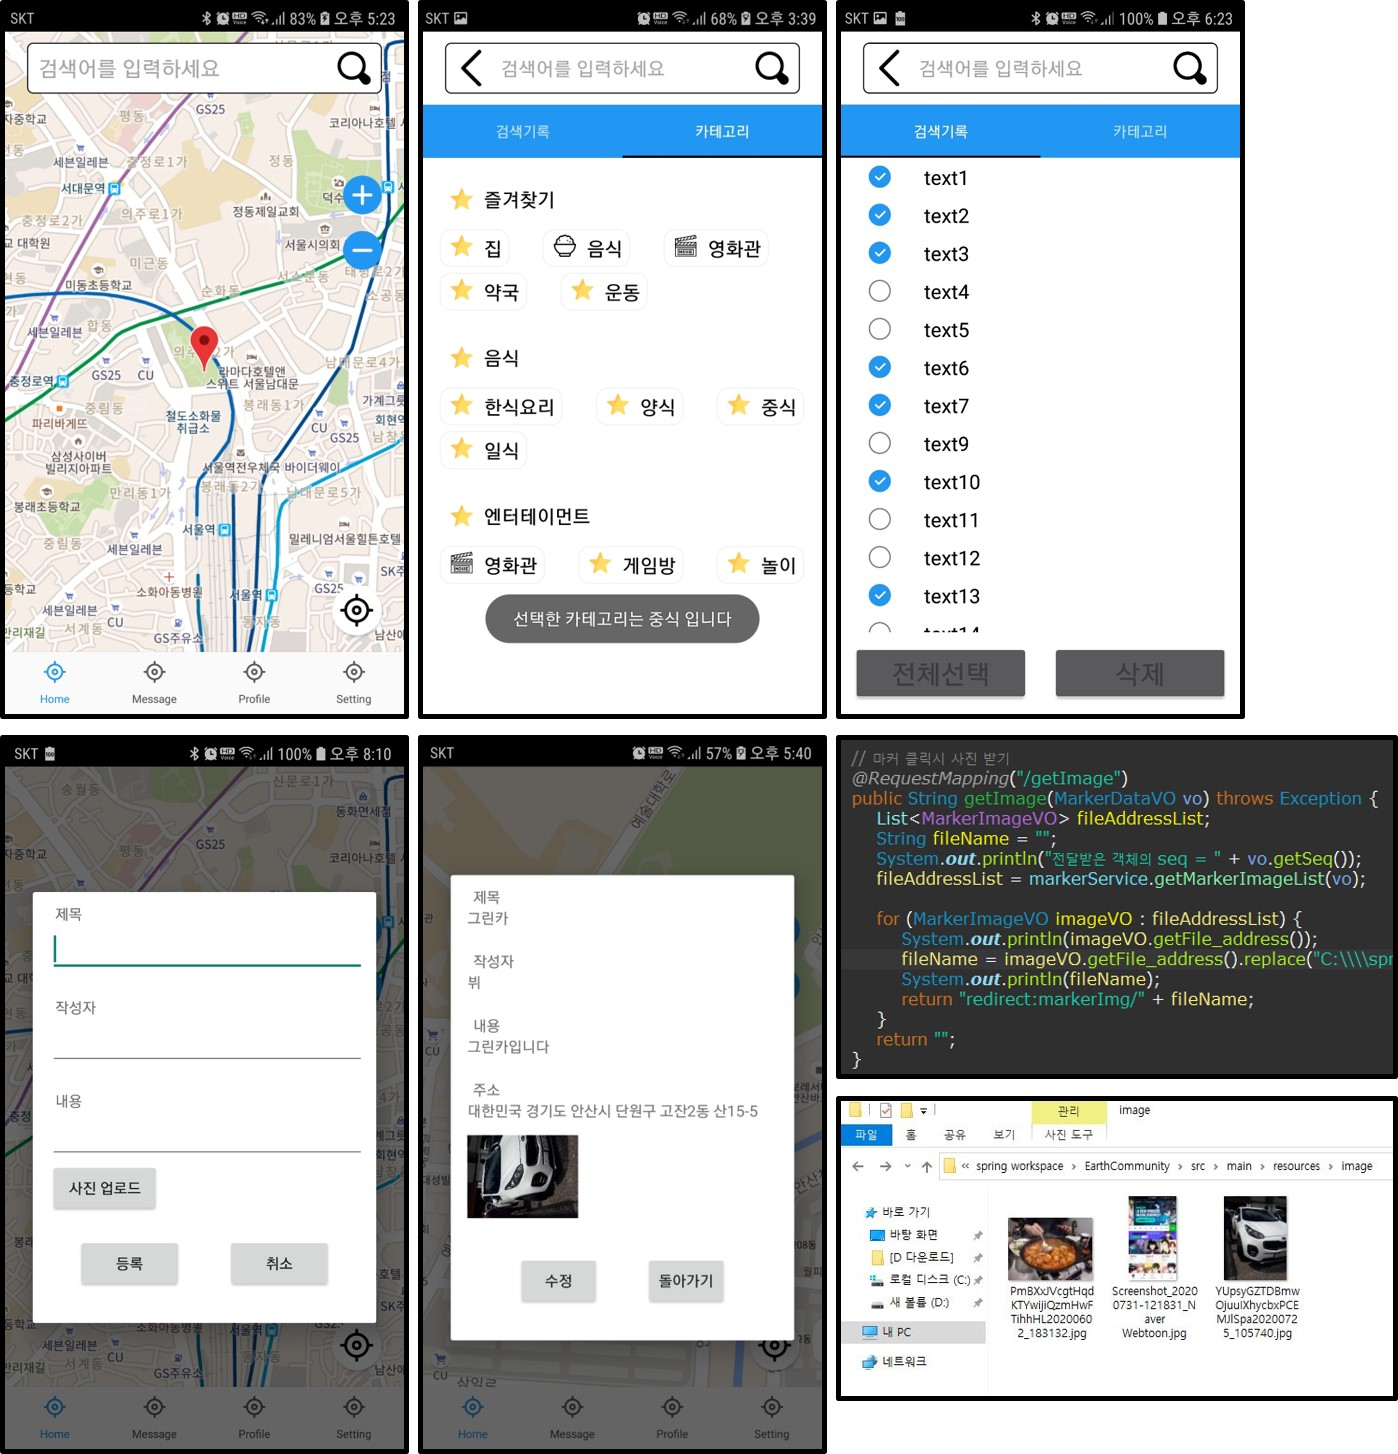
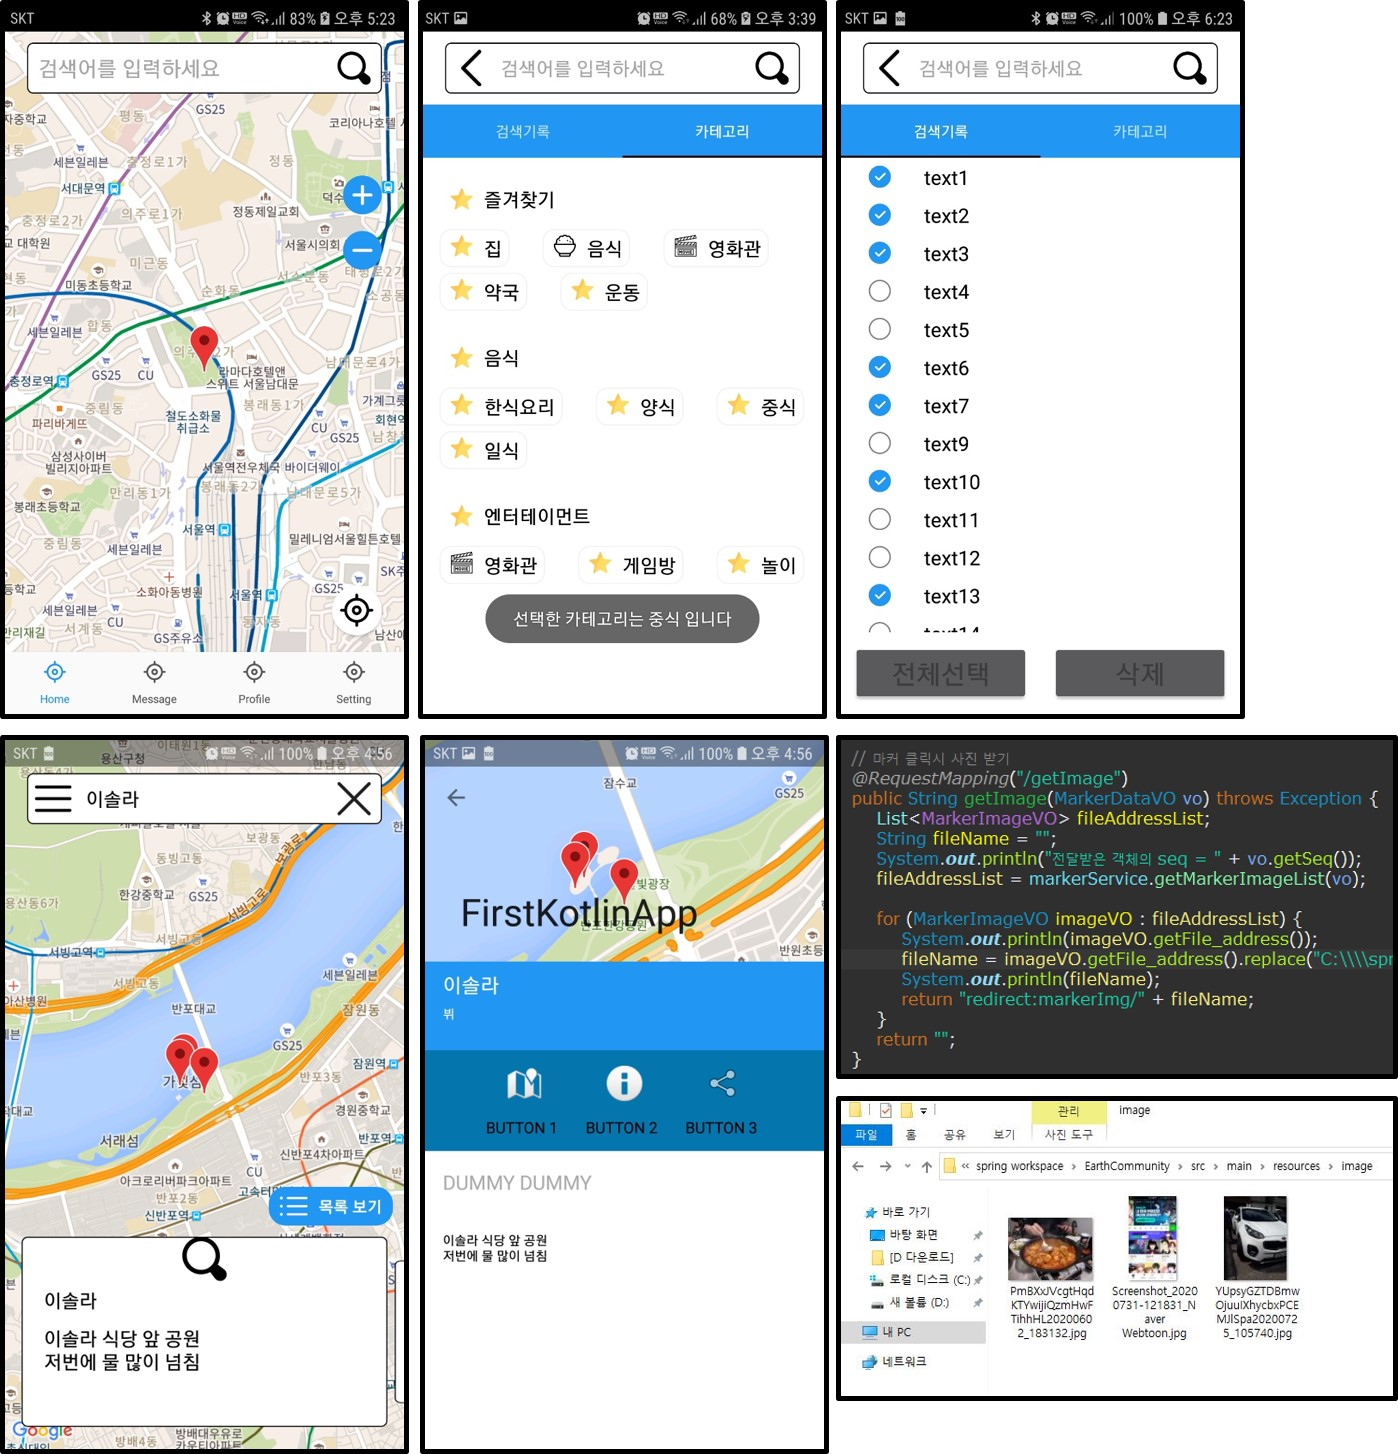
update

Changed region(s): [[0.0, 0.4952, 0.6152, 1.0]]

diff --git a/README.md b/README.md
@@ -2,13 +2,13 @@
 
 ![home](image/README.JPG)
 
-- 다양한 카테고리로 분류하여 사용자가 원하는 마커를 찾고 등록함으로써 소통할 수 있는 애플리케이션
+- 다양한 카테고리로 분류하여 이용자가 원하는 마커를 찾고 등록함으로써 서로 소통할 수 있는 애플리케이션
 
-- [개발일지](https://github.com/vvvvvoin/EC-Project/blob/master/EC%ED%94%84%EB%A1%9C%EC%A0%9D%ED%8A%B8%20%EC%9D%BC%EC%A7%80.md)
+- **[개발일지](https://github.com/vvvvvoin/EC-Project/blob/master/EC%ED%94%84%EB%A1%9C%EC%A0%9D%ED%8A%B8%20%EC%9D%BC%EC%A7%80.md) 를 확인해주세요**
 
 
 - 환경
-  - AndroidStudio 4.0
+  - AndroidStudio 4.0, only Kotlin
   - Spring Legacy Project
 - 기능
   - 권한설정
@@ -17,7 +17,8 @@
     - ClusterManager Marker Item event(등록, 수정, 뷰) [(here)](https://github.com/vvvvvoin/EC-Project/blob/master/EC%ED%94%84%EB%A1%9C%EC%A0%9D%ED%8A%B8%20%EC%9D%BC%EC%A7%80.md#20200726)
     - 현재위치 찾기 [(here)](https://github.com/vvvvvoin/EC-Project/blob/master/EC%ED%94%84%EB%A1%9C%EC%A0%9D%ED%8A%B8%20%EC%9D%BC%EC%A7%80.md#20200726)
     - GeoCoder 주소부여
-  - mobileDB (Room)
+    - BottomSheet를 이용한 마커 뷰 [(here)](https://github.com/vvvvvoin/EC-Project/blob/master/EC%ED%94%84%EB%A1%9C%EC%A0%9D%ED%8A%B8%20%EC%9D%BC%EC%A7%80.md#20200831)
+  - mobileDB (Room) 
     
     - DB데이터를 ClusterManager를 통해 GoogleMap에 Marker 추가
   - RetrofitRxJava

diff --git a/EC프로젝트 일지.md b/EC프로젝트 일지.md
@@ -636,3 +636,15 @@ java.lang.SecurityException: Permission Denial: opening provider com.android.pro
 - 기존에 마커클릭 이벤트는 popUpActivity에서 bottomSheet로 바뀔예정
 - 선택되거나 해당되는 마커는 하이라이트를 줘야함
 
+### 2020.09.03
+
+- 마커클릭 이벤트를 popUpActivity에서 bottomSheet로 변경하였다
+- 클릭된 마커를 주변마커과 구분하기 위해 색, 아이콘을 변경했다 (하이라이트)
+- 마커가 밀집된 주변을 클러스트하는 기능을 기존의 구글의 onCameraIdle()와 연동못시켰는데 연동에 성공했다
+  - 구글의  onCameraIdle()에 ClusterManger.cluster() 를 넣어주면 된다
+- 이 과정에서 기존에 clusterManger를 사용하는데 마커 변경과 관련된 문제가 생겼다
+  - 클러스터되어있는 마커(아이콘, 색)를 변경하려면 클러스터 매니저가 해제가 되여하는데 아이콘을 바꾸는 기능이 클러스터매니저에 있다
+    - 이 해결책은 기본 구글맵에 있는 기능을 활용하면 되지만 통일이 사라지고 지저분한 코드가 생긴다
+  - 클러스터 되어있는 아이템을 접근하면 null에 접근하여 문제가 발생한다
+  - 문제의 해결책으로 클러스터매니저, 랜더러를 상황에 맞게 계속 제거, 생성해주는 것이 있다. 좋은 방법같지 않다
+  - 앱의 기능과 목적에 맞게 다시 생각해야 해결책이 있을거같다
